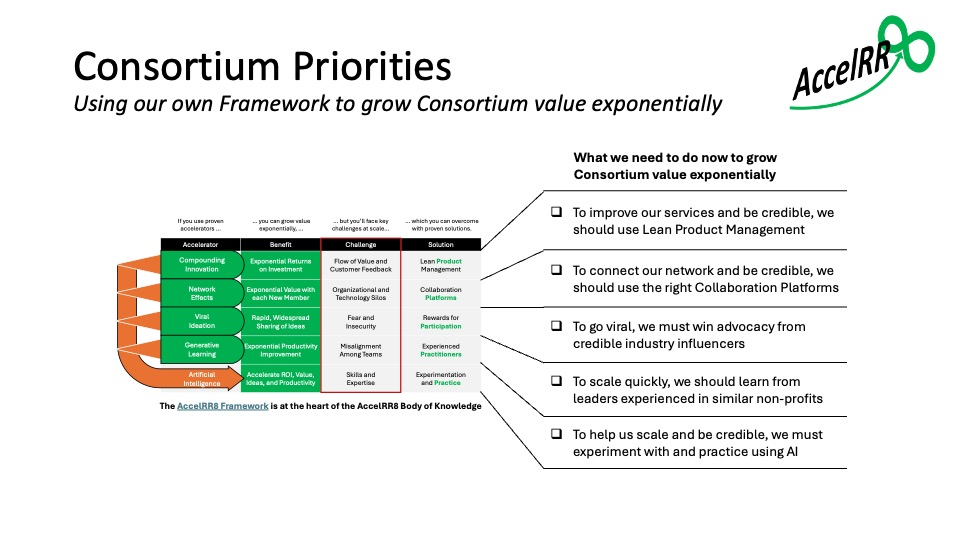
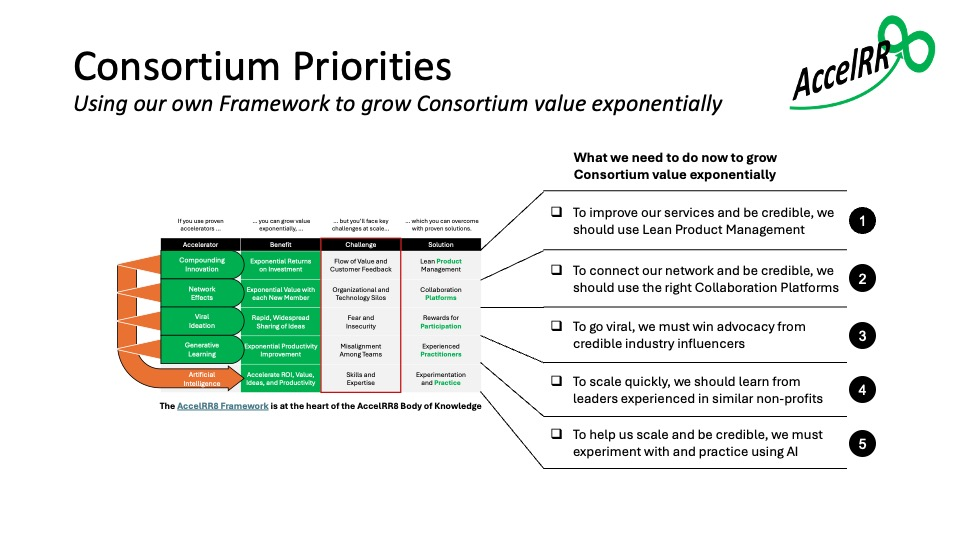
Refined the Product Plan and labeled the Consortium Priorities

diff --git a/docs/2_Value_Creation/2a_Product/2a_Product_Management_Plan.md b/docs/2_Value_Creation/2a_Product/2a_Product_Management_Plan.md
@@ -1,40 +1,40 @@
 # Product Management Plan
 
-Our plan builds on the ["Grow Value Exponentially"](https://accelrr8.github.io/AccelRR8-Framework/?page=Grow_Value_Exponentially&location=) story in the AccelRR8 Framework.
+## Using Lean Product Management
 
-# Product Plan
+One of our [Consortium’s strategic priorities](https://accelrr8-consortium-nonprofit.github.io/Management-Public/?page=1_Integration/1b_Strategy/1b_Consortium_Vision_and_Strategy#executing-our-3-horizon-strategy) is “to improve our services and be credible, we should use Lean Product Management”.
 
-In the below graphic we show how we will use the AccelRR8 Framework to launch and grow the AccelRR8 Consortium’s value exponentially as it climbs toward achieving exponential benefits at scale.
+From the beginning, we have been using Lean Product Management (LPM) to develop Consortium Services and ignite compounding innovation.
 
-![](./img/Consortium_Product_Plan.jpeg)
+- First we developed the [Epic Hypothesis Statement](https://github.com/AccelRR8-Consortium-NonProfit/Management-Public/blob/main/docs/2_Value_Creation/2a_Product/AccelRR8_Consortium_NonProfit_Services_Portfolio_Epic-Hypothesis-Statement.pdf) and the [Lean Business Case](https://github.com/AccelRR8-Consortium-NonProfit/Management-Public/blob/main/docs/2_Value_Creation/2a_Product/AccelRR8_Consortium_NonProfit_Services_Portfolio_Lean_Business_Case.pdf) for the Services Portfolio overall.
 
-This is how we will achieve one of our key Success Factors:  “Our own success will be a key proof point of our core premise”
+- Next we developed a plan for version 1 of each service.  
 
-Specific actions we will take, and leading indicators we will measure, are shown in both Launch and Climb / Scale stages.
-
-These actions are organized into 3 services:  Professional Networking, Open Knowledge Sharing, and Industry Innovation
-
-# Using Lean Product Management
-
-One of our Consortium’s strategic priorities is “to improve our services and be credible, we should use Lean Product Management”.
-
-From the beginning, we have been using Lean Portfolio Management (LPM) to develop Consortium Services and ignite compounding innovation.
-
-First we developed the [Epic Hypothesis Statement](https://github.com/AccelRR8-Consortium-NonProfit/Management-Public/blob/main/docs/2_Value_Creation/2a_Product/AccelRR8_Consortium_NonProfit_Services_Portfolio_Epic-Hypothesis-Statement.pdf) and the [Lean Business Case](https://github.com/AccelRR8-Consortium-NonProfit/Management-Public/blob/main/docs/2_Value_Creation/2a_Product/AccelRR8_Consortium_NonProfit_Services_Portfolio_Lean_Business_Case.pdf) for the Services Portfolio overall.
-
-We then decomposed the Services Portfolio into separate Epics for version 1 of each service.  The scope of our services as shown in the graphic below was defined in the Epic Hypothesis Statement and Lean Business Case for v1 of each Service, which you can view in the [Product Management Repository](./2a_Product_Management_Repository) under the Deliverables header.
+The scope of our services, shown in the graphic below, was defined in the Epic Hypothesis Statement and Lean Business Case for v1 of each service. You can view these and other service deliverables in the [Product Management Repository](./2a_Product_Management_Repository) under the Deliverables header.
 
 ![](./img/Consortium_Services.jpeg)
 
-Additional deliverables are then developed for each service version as it moves through its lifecycle.   
+Additional deliverables were / will be developed for each service version as it moves through its lifecycle.   
+
+## Product Plan
+
+Our plan builds on the ["Grow Value Exponentially"](https://accelrr8.github.io/AccelRR8-Framework/?page=Grow_Value_Exponentially&location=) story in the AccelRR8 Framework.
+
+In the below graphic we show how we will use the AccelRR8 Framework to launch and grow the AccelRR8 Consortium’s value exponentially as it climbs and begins delivering benefits at scale.  
+
+![](./img/Consortium_Product_Plan.jpeg)
+
+Specific actions we will take, and leading indicators we will measure, are shown in both Launch and Climb / Scale stages.
+
+These actions are organized into our 3 services:  Professional Networking, Open Knowledge Sharing, and Industry Innovation
 
 # Product Roadmap
 
-The below graphic shows specific actions we are taking for our Services during the Launch Stage, aligned with the Product Priorities above. 
+The below graphic shows specific actions we are taking for our Services during the Launch Phase of our Product Plan.  These actions are aligned to our Consortium Priorities. 
 
 ![](./img/Roadmap_To_Launch_Baseline.jpg)
 
-The below graphic shows potential features and pricing models for our Services when we enter the Climb Stage and our services begin to achieve scale.
+The below graphic shows potential features and pricing models for our Services when we enter the Climb / Scale Stage of our Product Plan.
 
 ![](./img/Maturing_Our_Services.jpeg)
 
